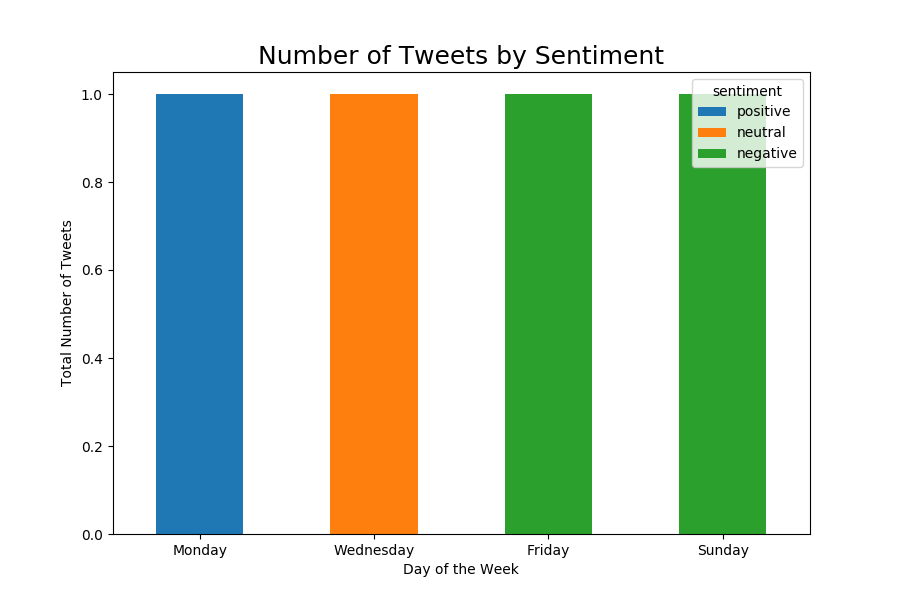
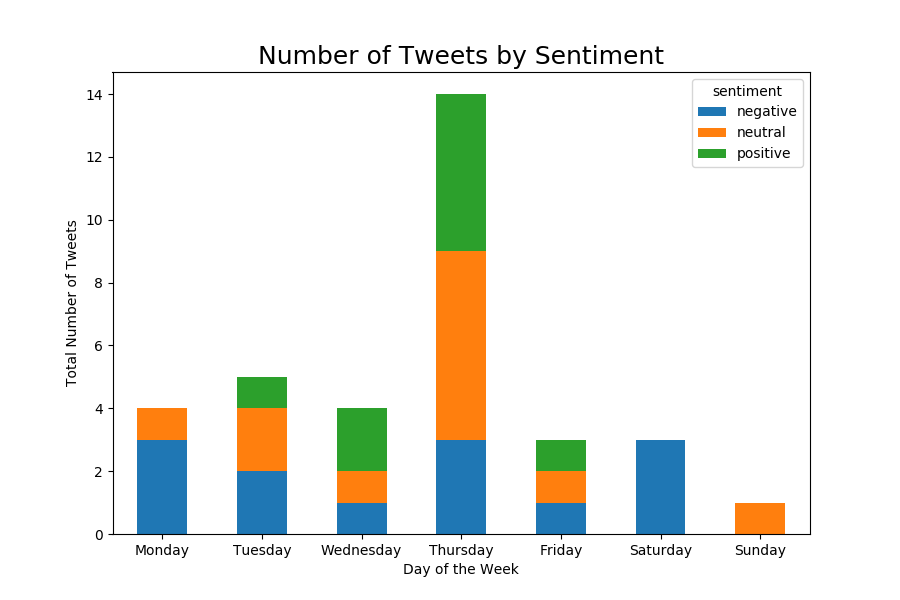
ughhhhh still not avg

diff --git a/ShawTimelineAnalysis.py b/ShawTimelineAnalysis.py
@@ -73,50 +73,26 @@ def plot_sentiment_numbers(source,df):
         plt.tight_layout()
         plt.show()
 
+# Creates a stacked bar chart for the avg number of tweets by sentiment for each day of the week
 def plot_sentiment_per_day(source,df):
     if not df.empty:
         df['sentiment'] = df.apply(lambda x: get_tweet_sentiment(x['text']), axis=1)
         df['tweet_date'] = pd.to_datetime(df['tweet_date'])
         df['day_of_week'] = df['tweet_date'].dt.weekday_name
-        df['day_of_week_index'] = df['tweet_date'].dt.weekday
-        df['week'] = df['tweet_date'].dt.week
+        df['week_index'] = df['tweet_date'].dt.weekday
 
-        df.sort_values('day_of_week_index', inplace=True)
-        df = df.drop(columns=['day_of_week_index','tweet_date','text'])
+        df.sort_values('week_index', inplace=True)
+        grouped = df.groupby(['sentiment','day_of_week'], sort=False)['day_of_week'].count().unstack('sentiment').fillna(0)
 
-        df['sentiment_by_day_counts'] = df.groupby(['day_of_week','sentiment'], sort=False).transform('count')
-        df['day_by_week_counts'] = df.groupby(['day_of_week','week'], sort=False).week.transform('count')
+        fig = grouped.plot(kind='bar',stacked=True,rot='horizontal',figsize=(9,6), title='Number of Tweets by Sentiment')
+        fig.set_xlabel("Day of the Week")
+        fig.set_ylabel("Total Number of Tweets")
 
-    #     test = df.groupby(['day_of_week','sentiment'], sort=False)['tweet_counts'].count()
+        plt.title('Number of Tweets by Sentiment', fontsize=18)
+        plt.savefig('plots/' + source + '_sentiment_by_week')
 
-        # df['week_counts'] = df.groupby(['day_of_week','week'])['day_of_week'].transform('count')
-
-        #
-        # df['total_tweets'] = df.groupby(['day_of_week'], sort=False)['week'].transform('count')
-        # df['total_weeks'] = df.groupby(['week'], sort=False)['day_of_week'].transform('count')
-        # df = df.drop(columns=['week'])
-        # test = df.groupby(['day_of_week','sentiment'], sort=False)['tweet_counts'].mean()
-
-        # grouped = df.groupby(['day_of_week','sentiment'], sort=False)['day_of_week'].count().unstack('sentiment').fillna(0)
-
-
-        # grouped['cumulative_tweets'] = grouped.day_of_week.mean()
-
-        print(df)
-        # print(test)
-        # print(grouped)
-
-        # fig = grouped.plot(kind='bar',stacked=True,rot='horizontal',figsize=(9,6), title='Number of Tweets by Sentiment')
-
-
-        # fig.set_xlabel("Day of the Week")
-        # fig.set_ylabel("Total Number of Tweets")
-        #
-        # plt.title('Number of Tweets by Sentiment', fontsize=18)
-        # plt.savefig('plots/' + source + '_sentiment_by_week')
-        #
-        # plt.tight_layout()
-        # plt.show()
+        plt.tight_layout()
+        plt.show()
 
 users = ['ShawHelp','ShawInfo']
 startDate = '2017-01-01'
